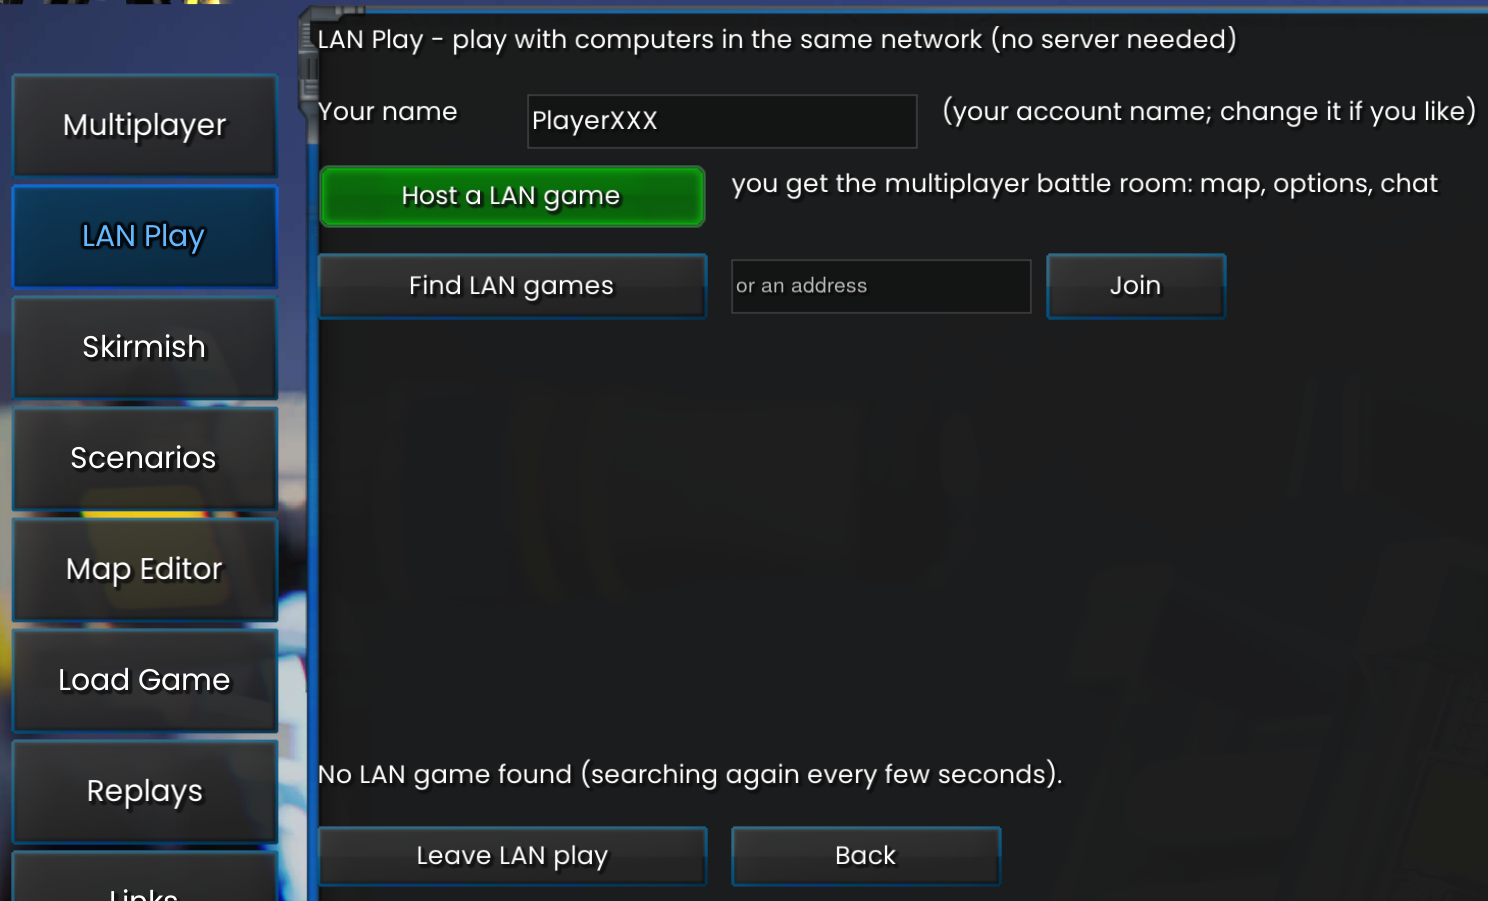
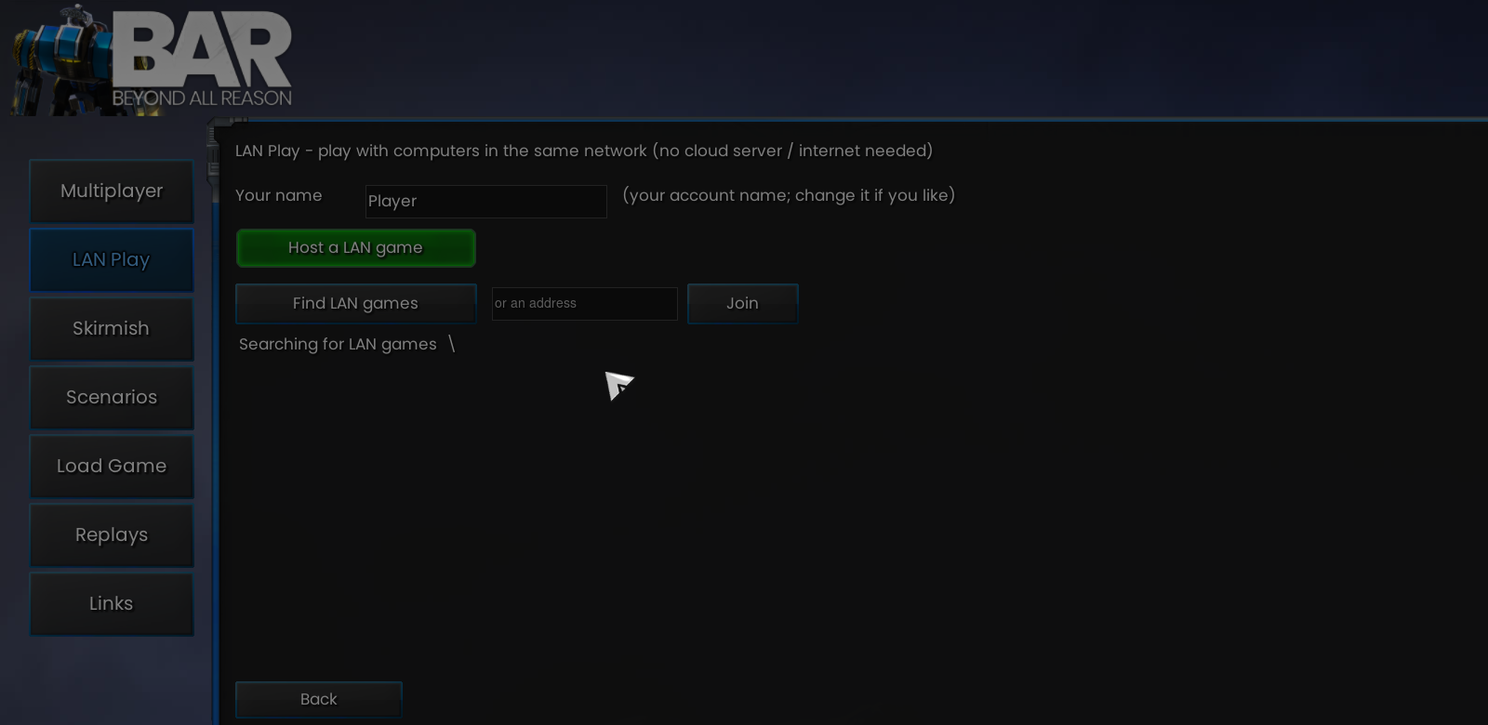
LAN Play: picture of the page retaken (docs/lanPlay.png: new heading, busy indicator, no hint beside Host); lan_test.ps1 mode page (one instance, the page opened and left alone); README, test notes and spec adjusted
Claude-Session: https://claude.ai/code/session_01QeCYKn7fqMf4y4C8NkAq1r

diff --git a/LevelEditor/test-data/README.md b/LevelEditor/test-data/README.md
@@ -24,7 +24,7 @@ The LAN Play test (two instances of the game, host and joiner, real lobby) takes
 
 ## LAN Play test (`tools`)
 
-`tools\lan_test.ps1 -Mode ctf|rtf|td|cp|teams` (`teams` = the host presses the room's buttons "3 teams" and "2 per team", a joiner comes in: log of the teams, game options and the middle column in `lan_status.txt`; `-Shots 20,50` = pictures of the host's window `shot_<s>.png` in the work folder, taken with PrintWindow, so the window may stay behind others; more: `-Sync same|missing|other` = the joiner has the host's extra game, none, or an own other version; `-Lobby same|other` = the joiner's lobby widget is the host's or has one more line; `-NoMap` = the joiner has an empty maps folder and no online download (`-KeepOnline`: the lobby may download), the map comes from the host; `-MapList none|official|wrong` = the list of official map md5 of the joiners (none, fetched online, or with a wrong md5); `-Clients 1|2`; each joiner is another instance and about 4-9 GB of RAM) starts two instances of the game (host "PlayerA", joiner "PlayerB") with the real lobby on this computer, in two small framed windows, plays the test level as a LAN scenario (`cp` = Copilot on an official map) and quits by itself. Everything is built in a work folder (default `%TEMP%\lan_test`, own write dir per instance, junctions to the installed engine and game): the installed game is not changed, but it must not be running. The widget `zz_lantest.lua` logs `[zzlan]` lines (teams, units, scores, commander positions) into `infolog.txt` of both instances (`<work>\sbx_H\data`, `<work>\sbx_J\data`); both logs must show the same state. Results of 2026-10-27: CTF (PlayerA and PlayerB as opponents, flags taken and held, score equal on both), Reclaim the Fame (both teams earn points, equal on both), Tower Defense (both humans in one team, waves, state "won"), Copilot (both humans in team 0, one commander, orders of both arrive).
+`tools\lan_test.ps1 -Mode ctf|rtf|td|cp|teams|page` (`page` = one instance with the LAN Play page opened and left alone, for pictures of the page with `-Shots`; `teams` = the host presses the room's buttons "3 teams" and "2 per team", a joiner comes in: log of the teams, game options and the middle column in `lan_status.txt`; `-Shots 20,50` = pictures of the host's window `shot_<s>.png` in the work folder, taken with PrintWindow, so the window may stay behind others; more: `-Sync same|missing|other` = the joiner has the host's extra game, none, or an own other version; `-Lobby same|other` = the joiner's lobby widget is the host's or has one more line; `-NoMap` = the joiner has an empty maps folder and no online download (`-KeepOnline`: the lobby may download), the map comes from the host; `-MapList none|official|wrong` = the list of official map md5 of the joiners (none, fetched online, or with a wrong md5); `-Clients 1|2`; each joiner is another instance and about 4-9 GB of RAM) starts two instances of the game (host "PlayerA", joiner "PlayerB") with the real lobby on this computer, in two small framed windows, plays the test level as a LAN scenario (`cp` = Copilot on an official map) and quits by itself. Everything is built in a work folder (default `%TEMP%\lan_test`, own write dir per instance, junctions to the installed engine and game): the installed game is not changed, but it must not be running. The widget `zz_lantest.lua` logs `[zzlan]` lines (teams, units, scores, commander positions) into `infolog.txt` of both instances (`<work>\sbx_H\data`, `<work>\sbx_J\data`); both logs must show the same state. Results of 2026-10-27: CTF (PlayerA and PlayerB as opponents, flags taken and held, score equal on both), Reclaim the Fame (both teams earn points, equal on both), Tower Defense (both humans in one team, waves, state "won"), Copilot (both humans in team 0, one commander, orders of both arrive).
 
 What went wrong in earlier runs and how to avoid it: [TESTING.md](TESTING.md).
 

diff --git a/LevelEditor/README.md b/LevelEditor/README.md
@@ -122,8 +122,8 @@ In the start menu **key 3** (create a scenario package from a level): choose a l
 **LAN Play** is an entry in the main menu of the game, right below Multiplayer. It gives you the multiplayer battle room of the game (map, options, AIs, teams, chat) for a game with computers in the same network, without the lobby server. The normal Multiplayer is not changed. It is a widget for the lobby (`lan_lobby\lan_lobby.lua`, installed by `install_editor.bat`); it only needs TCP port 8453 (lobby) and 8452 (the game) between the computers (Windows may ask once for the firewall). Only computers of the local network (or of a VPN such as Tailscale or Hamachi) can join.
 - **Name:** the page shows your name (the account name of the game; you need not be logged in); change it in the field if you like.
 - **Host:** open **LAN Play**, press **Host a LAN game**. You are in the battle room. Choose the map and the options as in the normal multiplayer room, then press Start. Others can join while you are in the room.
-- **Join:** open **LAN Play**: the page looks for games in the network by itself every few seconds (a /24 network, e.g. 192.168.1.x); click a game to join it. Or type the address and press Join. Whoever hosts does not look for games (so you never find yourself).
-- **Leave:** leaving the battle room (or **Leave LAN play**) takes you back to the LAN Play page and logs the lobby in to the normal server again. After a game you come back to the LAN Play page.
+- **Join:** open **LAN Play**: the page looks for games in the network by itself every few seconds (a /24 network, e.g. 192.168.1.x; a turning bar under **Find LAN games** shows the search, "No LAN game found (retry in 3 seconds)" when there is none); click a game to join it. Or type the address and press Join. Whoever hosts does not look for games (so you never find yourself).
+- **Leave:** leaving the battle room (or **Leave LAN play**, a button that only shows while you host or play a LAN game) takes you back to the LAN Play page. The lobby logs in to the normal server again only if you were logged in there before; otherwise no login window opens. **Back** only closes the page. After a game you come back to the LAN Play page.
 - **Custom Scenario:** the host has a button **Custom Scenario** at the top left of the room. It lists the scenarios you built (`scenario\scenarios`) and the entry "Official map (no scenario)". A scenario sets its map and its teams (the teams cannot be changed while it is chosen), and every player who joins plays in the team of the scenario's player (cooperative against the AI of the scenario). Choosing an official map brings the free teams back. The Level Editor setup builds the game "Level Editor Scenarios" (the gadgets of the scenarios, with a version made of its files) on every computer; a joiner who has not got the host's version is asked and gets it from the host before the start, as a file of its own (their own version stays).
 - **Copilot:** the host has a second button **Copilot** below **Custom Scenario** (both in the middle column of the room, under "Map Ready"). Inside every team (ally team) each human has a number 1, 2, 3 ... (by default everybody their own). A click on a player gives them the next number of their team; **humans with the same number are Copilots and play one player together** (one team of the game: all give orders to its units, one pool of resources, e.g. one fights at the front, one builds the base). The room says it in the chat ("PlayerB is player 1 of their team now and is Copilot with PlayerA."), the window shows "+ Copilot with ..." and the start announces the Copilots. In such a game the start positions of the map are used (the game of a shared team is started by the little widget `shared_start.lua` as soon as everybody has loaded, so nobody could place a start position first).
 - **Removing:** `uninstall_editor.bat` removes the widget, the extra game and the junction.

diff --git a/specs/testing.md b/specs/testing.md
@@ -17,7 +17,7 @@ How changes are checked. The details of the test tools and what got in the way a
 | `test-data\levels\` (`ctf_test`, `rtf_test`, `td_test`, `scav_test`) | one small level per game mode on the flat map Full Metal Plate 1.7 |
 | `tools\make_demo_levels.py` | writes the three demo levels into `LevelEditor\levels` |
 | `tools\arena_test.ps1` (with `-Widget zz_*.lua`, `-Shots`) | one sandbox game of the editor (ten teams, flat map) with a test widget from `tools\` (`zz_arena.lua`, `zz_split.lua` (split attack XS), `zz_save.lua` (Save page S), `zz_scenario.lua` (Scenario info page I), `zz_teams.lua`, `zz_menu.lua`, `zz_shots_all.lua`, ...; the method for each is in `TESTING.md`); `zz_bpt.lua` tests the BluePrinter plans through its test hooks |
-| `tools\lan_test.ps1 -Mode ctf\|rtf\|td\|cp\|scav` (also `-Sync`, `-Lobby`, `-NoMap`) | LAN Play: two real lobbies, join, scenario, transfer, versions |
+| `tools\lan_test.ps1 -Mode ctf\|rtf\|td\|cp\|scav\|page` (also `-Sync`, `-Lobby`, `-NoMap`) | LAN Play: two real lobbies, join, scenario, transfer, versions |
 | `tools\console_test.ps1 -Mode ctf\|rtf\|td` | the console lobby of the scenario packages |
 | `scenario_builder.ps1 -Level <name> -LevelDir <folder> -Auto -BundleDir <folder>` | builds a bundle from a test level without touching the user's levels |
 
